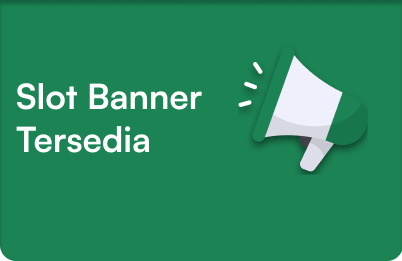
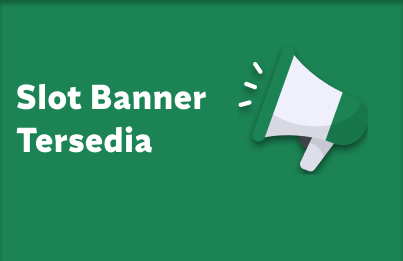
fix: update color values for shadows and  change image empty-carousel

diff --git a/lib/presentation/screens/home/home_screen.dart b/lib/presentation/screens/home/home_screen.dart
@@ -45,7 +45,7 @@ const _heroSurfaceShadow = [
     offset: Offset(0, 12),
   ),
   BoxShadow(
-    color: Color(0x1A000000),
+    color: Color.fromARGB(26, 255, 255, 255),
     blurRadius: 12,
     offset: Offset(0, 4),
   ),
@@ -107,69 +107,69 @@ class _HomeScreenState extends State<HomeScreen> {
         listener: (context, state) => _loadPrayerScheduleIfReady(state),
         child: CustomScrollView(
           slivers: [
-          SliverToBoxAdapter(
-            child: SizedBox(
-              height: _maxCarouselHeight + 70,
-              child: Stack(
-                clipBehavior: Clip.none,
+            SliverToBoxAdapter(
+              child: SizedBox(
+                height: _maxCarouselHeight + 70,
+                child: Stack(
+                  clipBehavior: Clip.none,
+                  children: [
+                    _buildCarousel(
+                      context,
+                      _maxCarouselHeight,
+                      0,
+                    ),
+                    Positioned(
+                      top: _maxCarouselHeight - 30,
+                      left: 16,
+                      right: 16,
+                      child: _buildJadwalSholat(context),
+                    ),
+                  ],
+                ),
+              ),
+            ),
+            SliverToBoxAdapter(
+              child: Column(
+                spacing: 16,
+                mainAxisSize: MainAxisSize.min,
                 children: [
-                  _buildCarousel(
-                    context,
-                    _maxCarouselHeight,
-                    0,
+                  const SizedBox(height: 16),
+                  Padding(
+                    padding: const EdgeInsets.symmetric(horizontal: 16),
+                    child: _featureSection(
+                      context,
+                      onQiblatTap: () => context.push(
+                        '$currentLocation/${RouterPath.qiblaPath}',
+                      ),
+                      onJadwalSolatTap: () => context.push(
+                        '$currentLocation/${RouterPath.jadwalSholatPath}',
+                      ),
+                      onKalendarTap: () => context.push(
+                        '$currentLocation/${RouterPath.calendarPath}',
+                      ),
+                      onProdukHalalTap: () => context.push(
+                        '$currentLocation/${RouterPath.productHalalPath}',
+                      ),
+                      onKisahTap: () => context.push(
+                        '$currentLocation/${RouterPath.kisahPath}',
+                      ),
+                    ),
                   ),
-                  Positioned(
-                    top: _maxCarouselHeight - 30,
-                    left: 16,
-                    right: 16,
-                    child: _buildJadwalSholat(context),
+                  Padding(
+                    padding: const EdgeInsets.symmetric(horizontal: 16),
+                    child: _buildContinueReading(context),
                   ),
+                  const SizedBox(height: 4),
+                  _buildBeritaIslam(context),
+                  SizedBox(height: bottomInset),
                 ],
               ),
             ),
-          ),
-          SliverToBoxAdapter(
-            child: Column(
-              spacing: 16,
-              mainAxisSize: MainAxisSize.min,
-              children: [
-                const SizedBox(height: 16),
-                Padding(
-                  padding: const EdgeInsets.symmetric(horizontal: 16),
-                  child: _featureSection(
-                    context,
-                    onQiblatTap: () => context.push(
-                      '$currentLocation/${RouterPath.qiblaPath}',
-                    ),
-                    onJadwalSolatTap: () => context.push(
-                      '$currentLocation/${RouterPath.jadwalSholatPath}',
-                    ),
-                    onKalendarTap: () => context.push(
-                      '$currentLocation/${RouterPath.calendarPath}',
-                    ),
-                    onProdukHalalTap: () => context.push(
-                      '$currentLocation/${RouterPath.productHalalPath}',
-                    ),
-                    onKisahTap: () => context.push(
-                      '$currentLocation/${RouterPath.kisahPath}',
-                    ),
-                  ),
-                ),
-                Padding(
-                  padding: const EdgeInsets.symmetric(horizontal: 16),
-                  child: _buildContinueReading(context),
-                ),
-                const SizedBox(height: 4),
-                _buildBeritaIslam(context),
-                SizedBox(height: bottomInset),
-              ],
-            ),
-          ),
-        ],
+          ],
+        ),
       ),
-    ),
-  );
-}
+    );
+  }
 
   Widget _buildCarousel(
     BuildContext context,
@@ -213,9 +213,8 @@ class _HomeScreenState extends State<HomeScreen> {
         ),
         boxShadow: const [
           BoxShadow(
-            color: Color(0x14000000),
+            color: Color.fromARGB(19, 255, 255, 255),
             blurRadius: 4,
-            offset: Offset(0, 2),
           ),
           BoxShadow(
             color: Color(0x11000000),
@@ -223,13 +222,13 @@ class _HomeScreenState extends State<HomeScreen> {
             offset: Offset(0, 6),
           ),
           BoxShadow(
-            color: Color(0x0A000000),
-            blurRadius: 9,
-            offset: Offset(0, 14),
+            color: Color.fromARGB(8, 255, 255, 255),
+            blurRadius: 12,
+            offset: Offset(0, 1),
           ),
           BoxShadow(
-            color: Color(0x02000000),
-            blurRadius: 10,
+            color: Color.fromARGB(2, 255, 255, 255),
+            blurRadius: 30,
             offset: Offset(0, 26),
           ),
         ],
@@ -241,7 +240,8 @@ class _HomeScreenState extends State<HomeScreen> {
               : null;
           final schedule =
               loadedState?.todaySchedule ?? loadedState?.response.jadwal;
-          final nextPrayerLabel = loadedState?.nextPrayer?.label ??
+          final nextPrayerLabel =
+              loadedState?.nextPrayer?.label ??
               _nextPrayerLabelFromActive(loadedState?.activePrayer?.label);
 
           final nextPrayer = _resolvePrayerByLabel(
